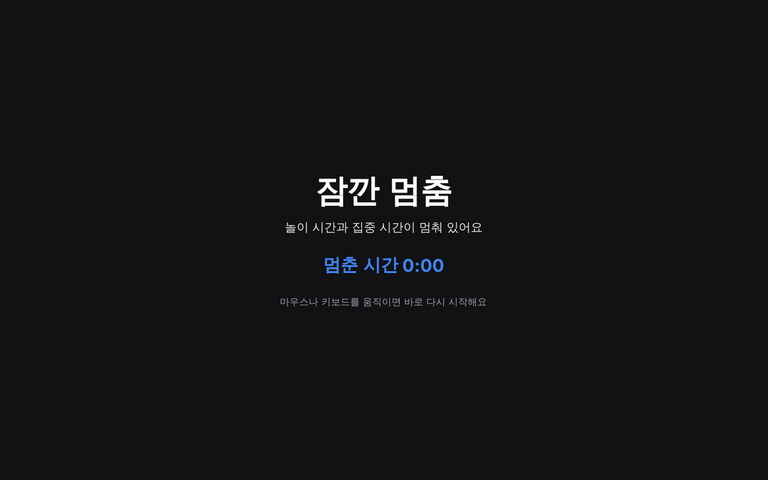
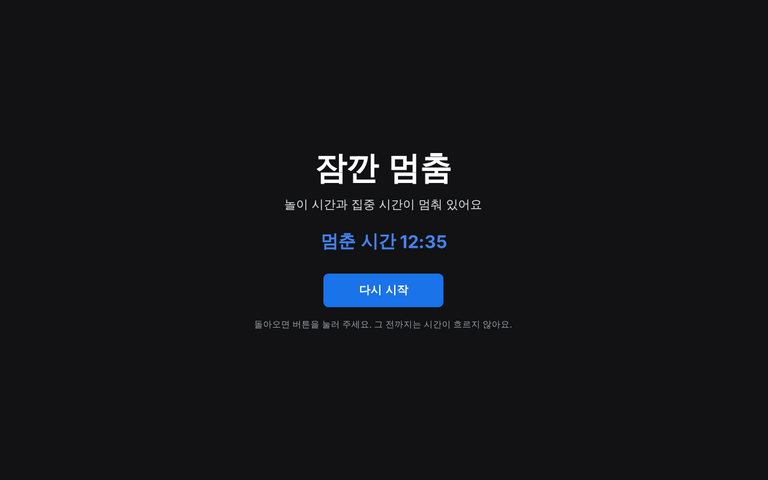
잠깐 멈추기를 버튼으로만 풀리는 보호화면으로 변경 (1.6.1)
입력 감지로 자동 재개하던 방식은 멈춤 화면의 글자 위치를 1초마다 다시 잡을 때
커서 밑에서 생기는 마우스 이벤트 때문에 움직이지 않아도 풀릴 수 있었다.
이제 모든 모니터를 덮고 '다시 시작' 버튼을 눌러야만 풀린다(Alt+F4로도 닫히지 않음).

Claude-Session: https://claude.ai/code/session_01NPN76vxiSvq4eHX32v76a1

Changed region(s): [[0.3125, 0.3125, 0.6562, 0.6875]]

diff --git a/src/Popups.cs b/src/Popups.cs
@@ -402,26 +402,22 @@ namespace PlayTimer
         }
     }
 
-    // 잠깐 멈춤 화면. 마우스·키보드를 건드리면 닫히며 다시 시작한다.
+    // 잠깐 멈춤 화면. 보호화면처럼 모든 모니터를 덮고, "다시 시작" 버튼을 눌러야만 풀린다.
+    // (마우스·키보드 움직임으로는 풀리지 않는다)
     class PauseScreen : Form
     {
         readonly TrayApp app;
         readonly Label elapsed;
+        readonly FlowLayoutPanel stack;
+        readonly List<Form> covers = new List<Form>();
         readonly Timer timer = new Timer();
 
         public PauseScreen(TrayApp app)
         {
             this.app = app;
-            FormBorderStyle = FormBorderStyle.None;
-            ShowInTaskbar = false;
-            TopMost = true;
-            StartPosition = FormStartPosition.Manual;
-            Bounds = Screen.PrimaryScreen.Bounds;
-            BackColor = Color.FromArgb(18, 18, 20);
-            Opacity = 0.9;
-            KeyPreview = true;
+            ConfigureCover(this, Screen.PrimaryScreen);
 
-            var stack = new FlowLayoutPanel
+            stack = new FlowLayoutPanel
             {
                 FlowDirection = FlowDirection.TopDown,
                 WrapContents = false,
@@ -431,46 +427,69 @@ namespace PlayTimer
             };
             var title = Ui.Label("잠깐 멈춤", Ui.Font(40f, FontStyle.Bold), Color.White);
             var sub = Ui.Label("놀이 시간과 집중 시간이 멈춰 있어요", Ui.Font(15f), Ui.DarkText);
-            elapsed = Ui.Label("", Ui.Font(22f, FontStyle.Bold), Ui.BlueLight);
-            var hint = Ui.Label("마우스나 키보드를 움직이면 바로 다시 시작해요", Ui.Font(12f), Ui.DarkSubText);
-            title.Margin = Ui.Pad(0, 0, 0, 10);
-            sub.Margin = Ui.Pad(0, 0, 0, 28);
-            elapsed.Margin = Ui.Pad(0, 0, 0, 28);
-            foreach (var l in new[] { title, sub, elapsed, hint })
+            elapsed = Ui.Label("멈춘 시간 0:00:00", Ui.Font(22f, FontStyle.Bold), Ui.BlueLight);
+            elapsed.AutoSize = false;
+            elapsed.TextAlign = ContentAlignment.MiddleCenter;
+            elapsed.Size = new Size(Ui.S(420), Ui.S(44));
+            var resume = new UiButton("다시 시작", ButtonKind.Primary, true)
             {
-                l.Anchor = AnchorStyles.None;
-                stack.Controls.Add(l);
+                Font = Ui.Font(14f, FontStyle.Bold),
+                TabStop = false
+            };
+            resume.FitToText();
+            resume.Size = new Size(Math.Max(resume.Width, Ui.S(200)), Ui.S(56));
+            resume.Click += delegate { app.EndPause(); };
+            var hint = Ui.Label("돌아오면 버튼을 눌러 주세요. 그 전까지는 시간이 흐르지 않아요.", Ui.Font(11f), Ui.DarkSubText);
+            title.Margin = Ui.Pad(0, 0, 0, 10);
+            sub.Margin = Ui.Pad(0, 0, 0, 24);
+            elapsed.Margin = Ui.Pad(0, 0, 0, 32);
+            resume.Margin = Ui.Pad(0, 0, 0, 18);
+            foreach (Control c in new Control[] { title, sub, elapsed, resume, hint })
+            {
+                c.Anchor = AnchorStyles.None;
+                stack.Controls.Add(c);
             }
             Controls.Add(stack);
 
-            Action center = delegate
+            // 글자가 바뀌어도 위치는 그대로 둔다(움직이면 커서 밑에서 불필요한 마우스 이벤트가 생긴다).
+            Shown += delegate
             {
                 var pref = stack.GetPreferredSize(Size.Empty);
                 stack.Location = new Point((ClientSize.Width - pref.Width) / 2, (ClientSize.Height - pref.Height) / 2);
+                foreach (var c in covers) c.Show();
             };
-            Shown += delegate { center(); };
 
-            // 화면 위에서의 입력도 바로 받는다(멈춘 직후 잠깐은 무시).
-            MouseMove += delegate { Wake(); };
-            MouseDown += delegate { Wake(); };
-            KeyDown += delegate { Wake(); };
-            foreach (Control c in stack.Controls) { c.MouseMove += delegate { Wake(); }; c.MouseDown += delegate { Wake(); }; }
-            stack.MouseMove += delegate { Wake(); };
+            foreach (var screen in Screen.AllScreens)
+            {
+                if (screen.Primary) continue;
+                var cover = new Form();
+                ConfigureCover(cover, screen);
+                cover.FormClosing += delegate(object s, FormClosingEventArgs e) { if (e.CloseReason == CloseReason.UserClosing && app.Paused) e.Cancel = true; };
+                covers.Add(cover);
+            }
+            FormClosed += delegate { foreach (var c in covers) { c.Hide(); c.Dispose(); } };
 
             timer.Interval = 1000;
-            timer.Tick += delegate { Tick(); center(); };
+            timer.Tick += delegate { elapsed.Text = "멈춘 시간 " + Ui.Clock(app.PausedSeconds); };
             timer.Start();
-            Tick();
         }
 
-        void Wake()
+        static void ConfigureCover(Form f, Screen screen)
         {
-            if (app.PausedSeconds > 3) app.EndPause();
+            f.FormBorderStyle = FormBorderStyle.None;
+            f.ShowInTaskbar = false;
+            f.TopMost = true;
+            f.StartPosition = FormStartPosition.Manual;
+            f.Bounds = screen.Bounds;
+            f.BackColor = Color.FromArgb(18, 18, 20);
+            f.Opacity = 0.94;
         }
 
-        void Tick()
+        // Alt+F4 등으로는 닫히지 않는다. 버튼(또는 앱)이 풀어야 닫힌다.
+        protected override void OnFormClosing(FormClosingEventArgs e)
         {
-            elapsed.Text = "멈춘 시간 " + Ui.Clock(app.PausedSeconds);
+            if (e.CloseReason == CloseReason.UserClosing && app.Paused) e.Cancel = true;
+            base.OnFormClosing(e);
         }
 
         protected override void Dispose(bool disposing)

diff --git a/src/PlayTimer.cs b/src/PlayTimer.cs
@@ -1076,9 +1076,6 @@ namespace PlayTimer
         public bool Paused { get { return paused; } }
         public double PausedSeconds { get { return paused ? (DateTime.UtcNow - pauseStartUtc).TotalSeconds : 0; } }
 
-        // 누른 직후 이 시간(초) 동안의 입력은 손을 떼는 동작으로 보고 무시한다.
-        const double PauseGrace = 3;
-
         public void StartPause()
         {
             if (paused) return;
@@ -1106,18 +1103,9 @@ namespace PlayTimer
             UpdateTray();
         }
 
-        // 멈춘 뒤 마우스·키보드 입력이 있으면 다시 시작한다.
-        public void CheckPauseInput()
-        {
-            if (!paused) return;
-            double since = PausedSeconds;
-            if (since <= PauseGrace) return;
-            if (UsageHistory.IdleSeconds() + 0.5 < since - PauseGrace) EndPause();
-        }
-
         void GuardApps()
         {
-            if (paused) { CheckPauseInput(); return; }
+            if (paused) return;
             if (focus == null || focus.Quest.Apps.Count == 0 || locked || hud == null) { badWindow = IntPtr.Zero; return; }
             string name;
             IntPtr h = AppGuard.Foreground(out name);
@@ -1196,6 +1184,7 @@ namespace PlayTimer
             if (historyForm != null) historyForm.Close();
             if (hud != null) hud.Close();
             if (board != null) board.Close();
+            paused = false;
             if (pauseScreen != null) pauseScreen.Close();
             CloseNag();
             foreach (var f in new Form[] { flyout, scheduleForm, shutdownNotice })

diff --git a/src/AssemblyInfo.cs b/src/AssemblyInfo.cs
@@ -3,5 +3,5 @@
 [assembly: AssemblyTitle("PlayTimer")]
 [assembly: AssemblyProduct("PlayTimer")]
 [assembly: AssemblyDescription("PC방처럼 사용 시간을 재고, 시간이 끝나면 끄라고 조르는 타이머")]
-[assembly: AssemblyVersion("1.6.0.0")]
-[assembly: AssemblyFileVersion("1.6.0.0")]
+[assembly: AssemblyVersion("1.6.1.0")]
+[assembly: AssemblyFileVersion("1.6.1.0")]

diff --git a/README.md b/README.md
@@ -115,8 +115,8 @@ irm https://raw.githubusercontent.com/APapeIsName/handle-my-pc/HEAD/install.ps1 
 
 ![잠깐 멈춤](docs/pause.png)
 
-- 화면이 "잠깐 멈춤" 화면으로 덮이고, **놀이 시간과 집중 시간이 멈춰요**. 알림도 뜨지 않아요.
-- **마우스나 키보드를 건드리는 순간 자동으로 다시 시작**해요. 누른 직후 3초 동안의 움직임은 손을 떼는 동작으로 보고 무시해요.
+- 보호화면처럼 모든 모니터가 "잠깐 멈춤" 화면으로 덮이고, **놀이 시간과 집중 시간이 멈춰요**. 알림도 뜨지 않아요.
+- 돌아오면 **다시 시작** 버튼을 눌러야 풀려요. 마우스·키보드를 움직이거나 Alt+F4를 눌러도 풀리지 않아요.
 - 다시 시작하면 얼마나 멈췄는지 알려 주고, 멈춘 시간은 사용 기록에 자리 비움으로 남아요.
 - 취침 시각과 칠해 둔 시간대는 실제 시계를 따르므로 멈추지 않아요.
 

diff --git a/CHANGELOG.md b/CHANGELOG.md
@@ -3,6 +3,14 @@
 새 버전을 낼 때는 맨 위에 `## X.Y.Z — 날짜` 항목을 추가하고 `src/AssemblyInfo.cs`의 버전을 같은 번호로 올리세요.
 앱의 "정보" 창과 GitHub 릴리스 설명에 이 내용이 그대로 쓰여요.
 
+## 1.6.1 — 2026-10-10
+
+### 바뀐 것
+- **잠깐 멈추기**가 보호화면처럼 바뀌었어요. 모든 모니터를 덮고, **"다시 시작" 버튼을 눌러야만** 풀려요. 마우스·키보드를 움직이는 것만으로는 더 이상 풀리지 않아요.
+
+### 고친 것
+- 마우스를 움직이지 않았는데 잠깐 멈춤이 저절로 풀려 시간이 줄던 문제.
+
 ## 1.6.0 — 2026-10-09
 
 ### 새로 생긴 것
